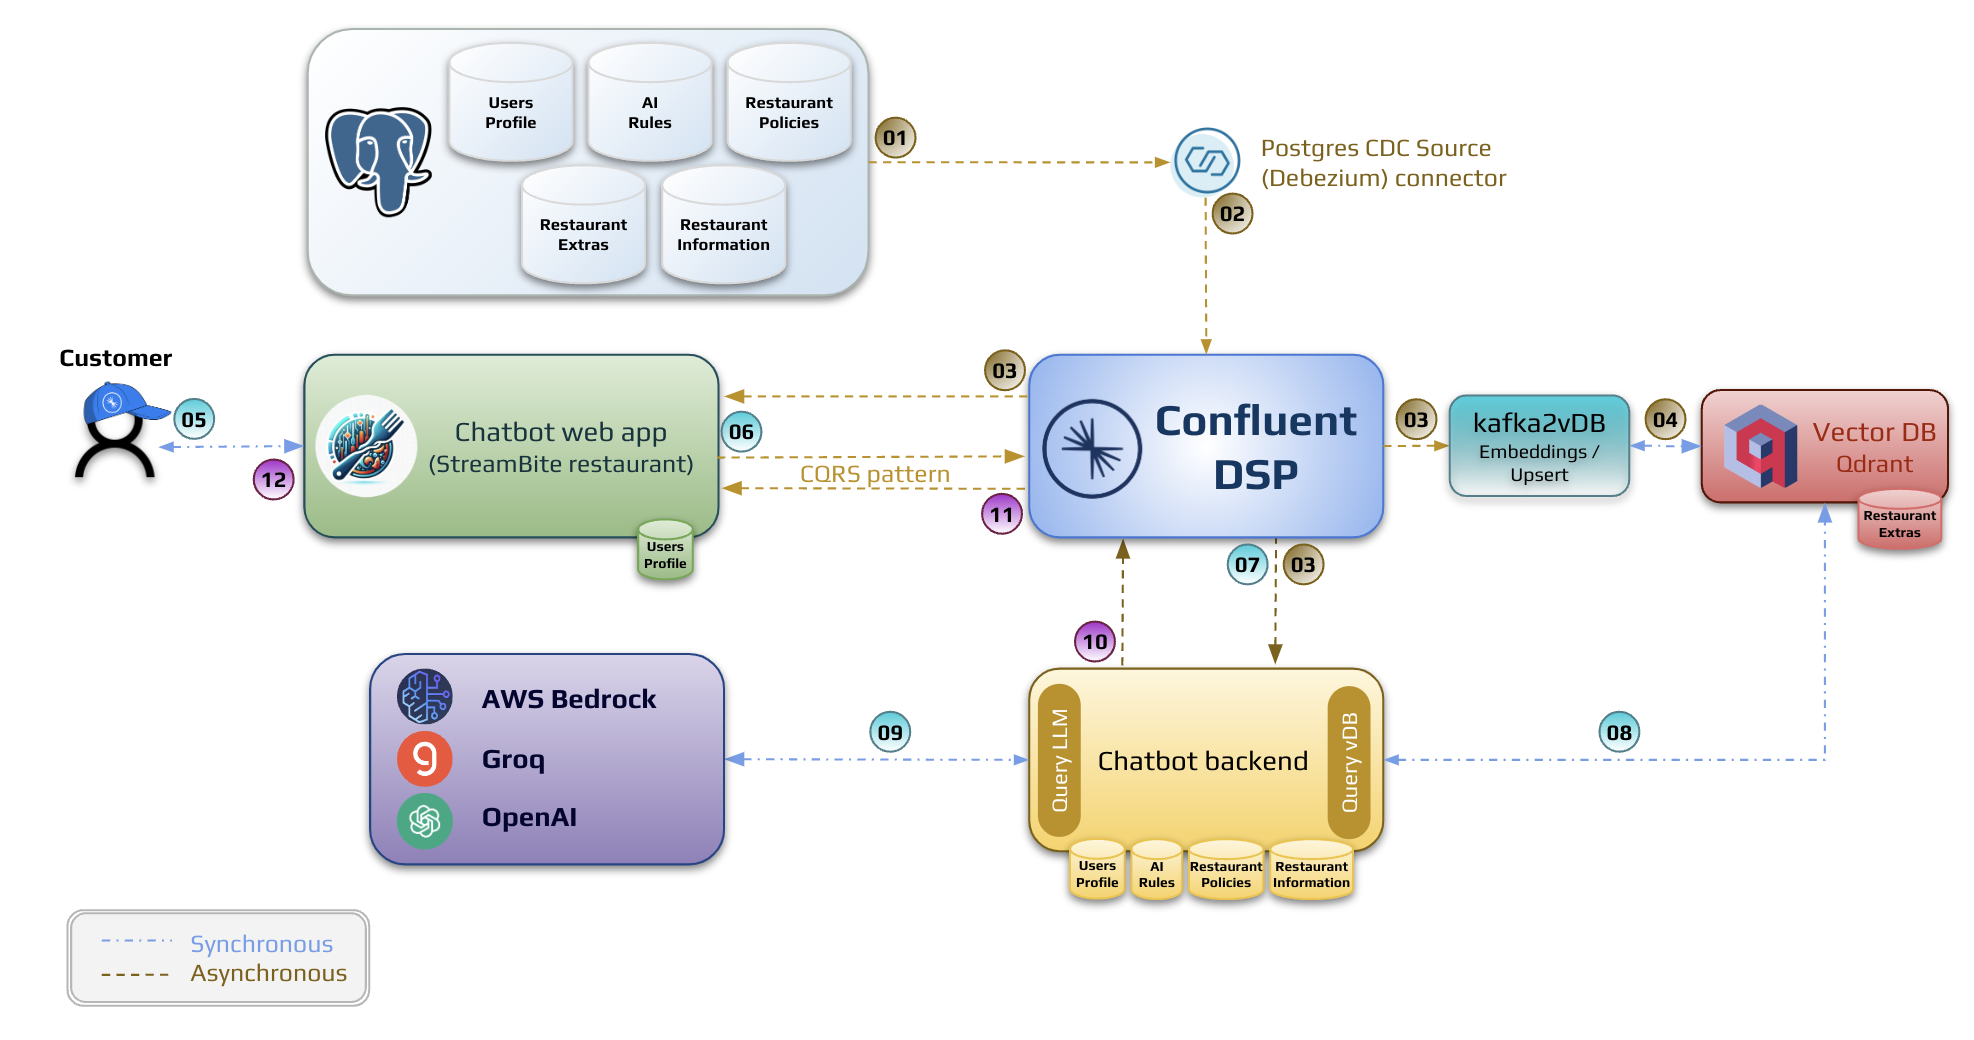
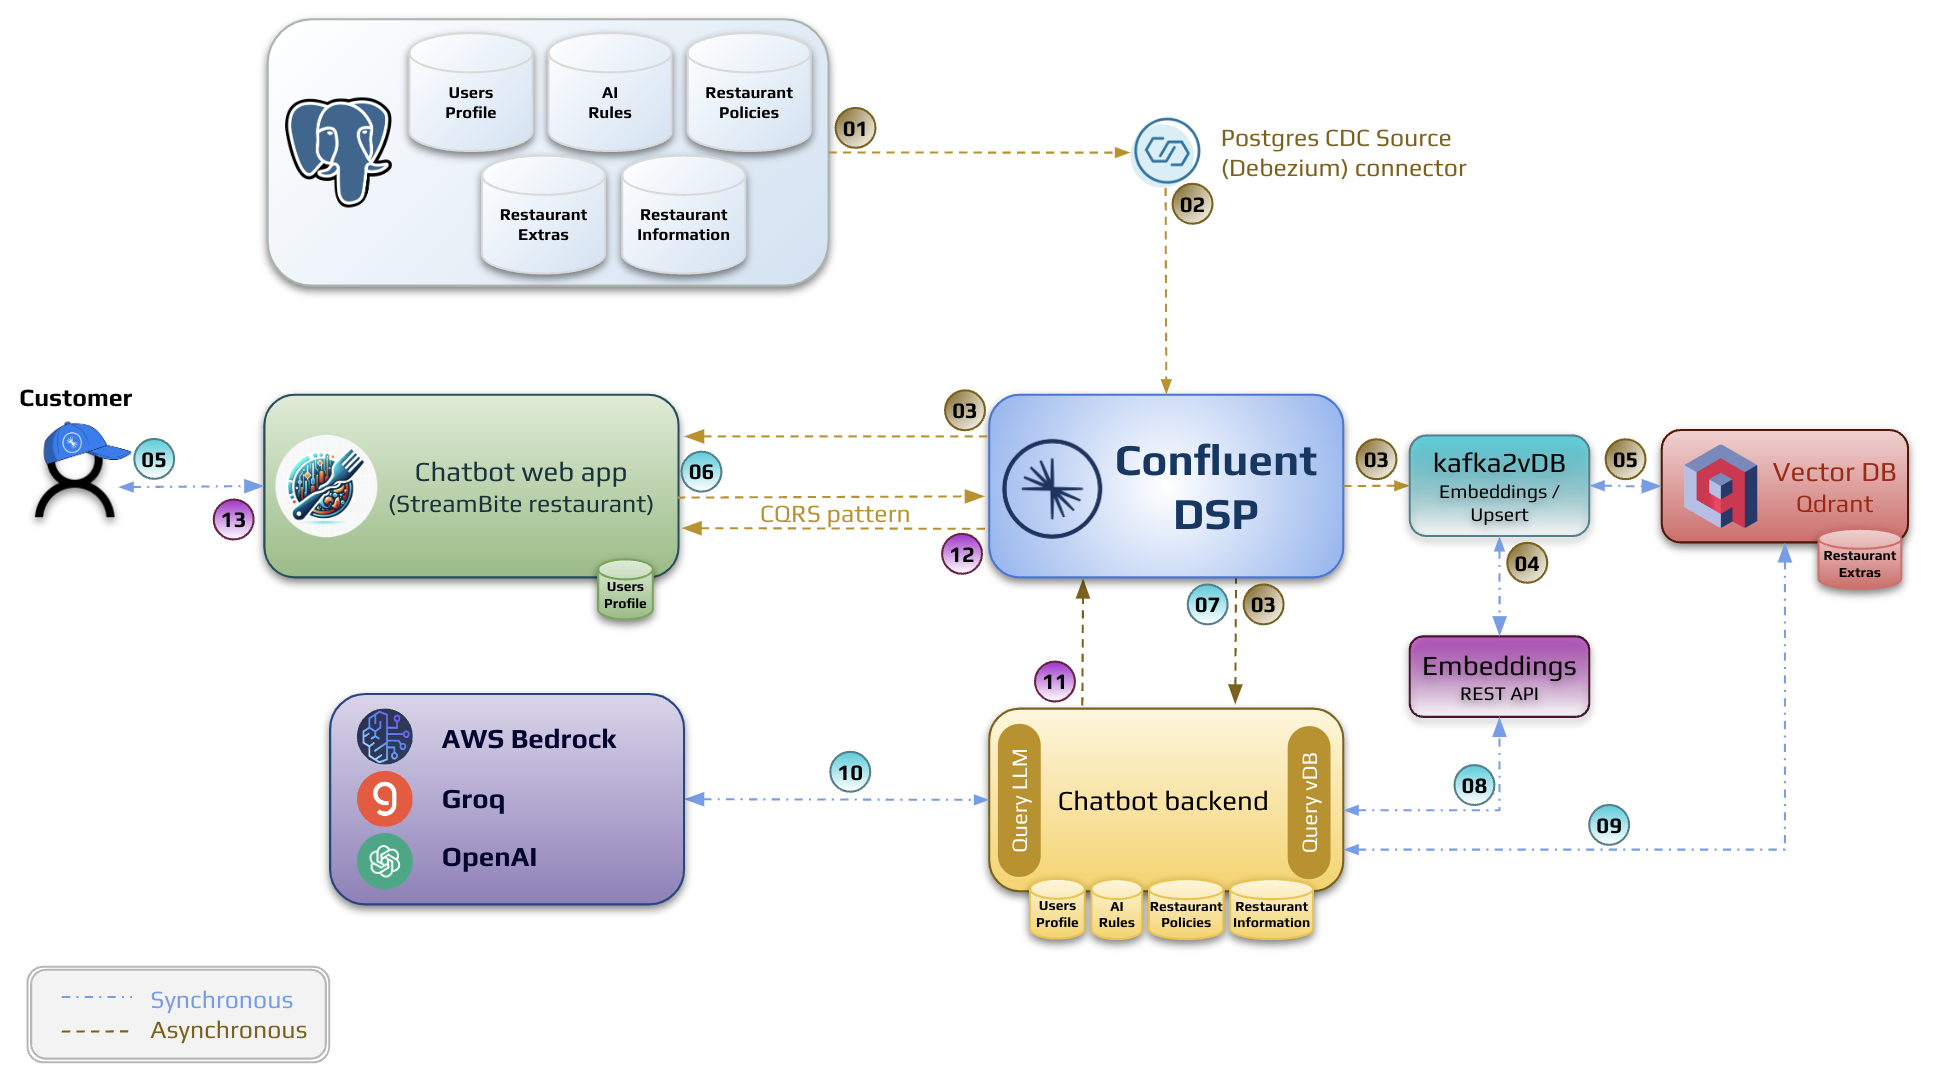
REST API for embeddings

diff --git a/src/static/css/main.css b/src/static/css/main.css
@@ -87,6 +87,16 @@ p {
   font-family: monospace, 'Courier New';
 }
 
+.log-embeddings {
+  color: white;
+  background-color: rgb(12, 0, 248);
+  margin: 6px;
+  padding: 2px;
+  border-radius: 3px;
+  font-size: 14px;
+  font-family: monospace, 'Courier New';
+}
+
 .log-db_provisioning {
   color: black;
   background-color: rgb(255, 239, 149);

diff --git a/src/chatbot.py b/src/chatbot.py
@@ -4,6 +4,7 @@ import json
 import time
 import boto3
 import logging
+import requests
 
 from dotenv import load_dotenv, find_dotenv
 from threading import Thread
@@ -14,7 +15,6 @@ from langchain.schema import SystemMessage, HumanMessage, AIMessage
 from langchain_community.callbacks.manager import get_openai_callback
 
 from qdrant_client import QdrantClient
-from sentence_transformers import SentenceTransformer
 
 from utils import (
     TOPIC_CUSTOMER_ACTIONS,
@@ -26,7 +26,6 @@ from utils import (
     TOPIC_DB_AI_RULES,
     TOPIC_DB_POLICIES,
     VDB_COLLECTION,
-    SENTENCE_TRANSFORMER,
     KafkaClient,
     SerializationContext,
     MessageField,
@@ -57,7 +56,6 @@ class LoadRAG:
     def __init__(
         self,
         vdb_client,
-        vdb_model,
         vdb_collection,
         topics: list = None,
     ) -> None:
@@ -65,7 +63,6 @@ class LoadRAG:
         self.customer_profile = dict()
         self.topics = topics
         self.vdb_client = vdb_client
-        self.vdb_model = vdb_model
         self.vdb_collection = vdb_collection
 
     def consumer(self, kafka) -> None:
@@ -162,10 +159,6 @@ if __name__ == "__main__":
     VECTOR_DB_MIN_SCORE = float(env_vars.get("VECTOR_DB_MIN_SCORE", 0.3))
     VECTOR_DB_SEARCH_LIMIT = int(env_vars.get("VECTOR_DB_SEARCH_LIMIT", 2))
 
-    # Load Sentence Transformer
-    logging.info(f"Loading sentence transformer, model: {SENTENCE_TRANSFORMER}")
-    VDB_MODEL = SentenceTransformer(SENTENCE_TRANSFORMER)
-
     # Qdrant (Vector-DB)
     logging.info("Loading VectorDB client (Qdrant)")
     VDB_CLIENT = QdrantClient(
@@ -173,13 +166,12 @@ if __name__ == "__main__":
         port=6333,
     )
 
-    # Set flag here to allow time to load sentence transformer
+    # Set flag here to allow time to connect to Qdrant
     set_flag(FLAG_FILE)
 
     # Class instance to load RAG data
     rag = LoadRAG(
         VDB_CLIENT,
-        VDB_MODEL,
         VDB_COLLECTION,
         topics=[
             TOPIC_DB_CUSTOMER_PROFILES,
@@ -206,7 +198,7 @@ if __name__ == "__main__":
     # Avro serialiser (for the response topic)
     kafka = KafkaClient(
         env_vars.get("KAFKA_CONFIG"),
-        env_vars.get('CLIENT_ID_CHATBOT'),
+        env_vars.get("CLIENT_ID_CHATBOT"),
         set_consumer=True,
         set_producer=True,
         auto_offset_reset="latest",
@@ -228,6 +220,8 @@ if __name__ == "__main__":
             aws_secret_access_key=":".join(AWS_SERVER_SECRET_KEY),
             region_name=env_vars.get("AWS_REGION"),
         )
+
+    embedding_url = f"http://localhost:{os.environ.get('EMBEDDING_PORT')}{os.environ.get('EMBEDDING_PATH')}"
 
     # Process messages submitted by the customers (Kafka consumer #2)
     for topic, headers, key, value in kafka.avro_string_consumer(
@@ -326,10 +320,20 @@ if __name__ == "__main__":
                         vdb_context = list()
 
                     if query:
-                        embeddings = VDB_MODEL.encode([query])
+                        # Generate vector Data
+                        response = requests.get(
+                            embedding_url,
+                            headers={
+                                "Content-Type": "text/plain; charset=UTF-8",
+                            },
+                            data=query,
+                        )
+                        embeddings = response.json().get("embeddings", list())
+
+                        # Query Vector DB
                         result_search = VDB_CLIENT.search(
                             collection_name=VDB_COLLECTION,
-                            query_vector=embeddings[0],
+                            query_vector=embeddings,
                             limit=VECTOR_DB_SEARCH_LIMIT,
                         )
                         for search in result_search:

diff --git a/src/kafka2vDB.py b/src/kafka2vDB.py
@@ -1,17 +1,17 @@
 import os
 import sys
+import json
 import logging
+import requests
 
 from dotenv import load_dotenv, find_dotenv
 
 from qdrant_client import QdrantClient
 from qdrant_client.http import models
-from sentence_transformers import SentenceTransformer
 
 from utils import (
     VDB_COLLECTION,
     TOPIC_DB_EXTRAS,
-    SENTENCE_TRANSFORMER,
     KafkaClient,
     md5_hash,
     sys_exc,
@@ -47,10 +47,6 @@ if __name__ == "__main__":
         enable_auto_commit=True,
     )
 
-    # Load Sentence Transformer
-    logging.info(f"Loading sentence transformer, model: {SENTENCE_TRANSFORMER}")
-    VDB_MODEL = SentenceTransformer(SENTENCE_TRANSFORMER)
-
     # Qdrant (Vector-DB)
     logging.info("Loading VectorDB client (Qdrant)")
     VDB_CLIENT = QdrantClient(
@@ -68,8 +64,10 @@ if __name__ == "__main__":
         ),
     )
 
-    # Set flag here to allow time to load sentence transformer and create Vector DB collection
+    # Set flag here to allow time to create Vector DB collection
     set_flag(FLAG_FILE)
+
+    embedding_url = f"http://localhost:{os.environ.get('EMBEDDING_PORT')}{os.environ.get('EMBEDDING_PATH')}"
 
     for topic, _, _, value in kafka.avro_string_consumer(
         kafka.consumer,
@@ -94,18 +92,30 @@ if __name__ == "__main__":
                     )
 
                 else:
-                    sentence = f"{payload_key}: {payload_value['description']}"
-                    embeddings = VDB_MODEL.encode([sentence])
+                    # Generate vector Data
+                    response = requests.get(
+                        embedding_url,
+                        headers={
+                            "Content-Type": "text/plain; charset=UTF-8",
+                        },
+                        data=json.dumps(
+                            {
+                                payload_key: payload_value["description"],
+                            }
+                        ),
+                    )
+                    embeddings = response.json().get("embeddings", list())
+
                     # Upsert collection
                     logging.info(
-                        f"Upserting Vector DB collection {VDB_COLLECTION}: {id} | {sentence}"
+                        f"Upserting Vector DB collection {VDB_COLLECTION}: {id} | {payload_key}: {payload_value['description']}"
                     )
                     VDB_CLIENT.upsert(
                         collection_name=VDB_COLLECTION,
                         points=[
                             models.PointStruct(
                                 id=id,
-                                vector=embeddings[0],
+                                vector=embeddings,
                                 payload={
                                     "title": payload_key,
                                     "description": payload_value["description"],

diff --git a/src/embeddings.py b/src/embeddings.py
@@ -1,0 +1,71 @@
+# Setence Transformer REST API
+import os
+import sys
+import uvicorn
+import logging
+
+from dotenv import load_dotenv, find_dotenv
+from fastapi import Request, FastAPI
+from sentence_transformers import SentenceTransformer
+
+from utils import (
+    SENTENCE_TRANSFORMER,
+    KafkaClient,
+    sys_exc,
+    set_flag,
+    unset_flag,
+)
+
+
+# Start Fast-API
+app = FastAPI()
+
+
+@app.get("/api/v1/embedding/setence-transformer")
+async def embedding(request: Request):
+    try:
+        sentence = (await request.body()).decode("utf-8")
+        embeddings = VDB_MODEL.encode([sentence])[0].tolist()
+        logging.info(f"Vector data for '{sentence}': {embeddings}")
+        return {
+            "embeddings": embeddings,
+        }
+    except Exception:
+        logging.error(sys_exc(sys.exc_info()))
+
+
+if __name__ == "__main__":
+    # Load env variables
+    load_dotenv(find_dotenv())
+    env_vars = dict(os.environ)
+
+    FLAG_FILE = env_vars.get("FLAG_FILE")
+    unset_flag(FLAG_FILE)
+
+    FILE_APP = os.path.splitext(os.path.split(__file__)[-1])[0]
+    logging.basicConfig(
+        format=f"[{FILE_APP}] %(asctime)s.%(msecs)03d [%(levelname)s]: %(message)s",
+        level=logging.INFO,
+        datefmt="%Y-%m-%d %H:%M:%S",
+    )
+
+    # Set kafka log handler
+    kafka = KafkaClient(
+        env_vars.get("KAFKA_CONFIG"),
+        f"{env_vars.get('CLIENT_ID_EMBEDDING')}",
+        file_app=FILE_APP,
+    )
+
+    logging.info(f"Loading sentence transformer, model: {SENTENCE_TRANSFORMER}")
+    VDB_MODEL = SentenceTransformer(SENTENCE_TRANSFORMER)
+
+    # Set flag here to allow time to load sentence transformer
+    set_flag(FLAG_FILE)
+
+    logging.info(f"Starting REST API (Sentence Transformer)")
+    uvicorn.run(
+        app,
+        host=env_vars.get("EMBEDDING_HOST"),
+        port=int(env_vars.get("EMBEDDING_PORT")),
+        reload=False,
+    )

diff --git a/src/utils/__init__.py b/src/utils/__init__.py
@@ -410,7 +410,7 @@ def flat_sql(
     env_vars: dict,
 ) -> list:
     result = data.replace("\r", "").replace("\n", " ").replace("\t", " ")
-    for var in set(re.findall("\$ENV\.([\w_-]*)", data)):
+    for var in set(re.findall(r"\$ENV\.([\w_-]*)", data)):
         result = result.replace(f"$ENV.{var}", env_vars.get(var, ""))
     while "  " in result:
         result = result.replace("  ", " ")

diff --git a/README.md b/README.md
@@ -47,6 +47,11 @@ KAFKA_CONFIG="config/docker_host.ini"
 FLAG_FILE=".db_provisioning.flag"
 MD5_PASSWORD_SALT="<MD5_string_here>"           # String to be used to salt hash passwords
 CLIENT_DB_PROVISIONING="chatbot-db_provisioning"
+# Embedding REST API
+EMBEDDING_HOST="0.0.0.0"
+EMBEDDING_PORT=9999
+EMBEDDING_PATH="/api/v1/embedding/setence-transformer"
+CLIENT_ID_EMBEDDING="chatbot-embeddings"
 # Web App (Chatbot front-end)
 WEBAPP_HOST="0.0.0.0"
 WEBAPP_PORT=8888
@@ -140,8 +145,15 @@ Data will be automatically loaded into a Postgres DB by the python script `src/d
 A [Postgres CDC source connector](https://docs.confluent.io/cloud/current/connectors/cc-postgresql-cdc-source-v2-debezium/cc-postgresql-cdc-source-v2-debezium.html) will make sure to capture any change (insert, update, delete) and have them published to Confluent Platform.
 
 #### Chatbot back-end microservices
-In parallel to that the kafka2vDB microservice (python script `src/kafka2vDB.py`) will start and perform the following task:
-   - Run a Qdrant vector search engine, create a local collection (`chatbot_restaurant`), generate the embeddings (using sentence transformer `all-MiniLM-L6-v2`) and load add Vector DB data (as consumed from the corresponding topic) into it
+REST API (`src/embeddings.py`) to use Hugging Face's sentence transformer to generate the vector data (embeddings: `all-MiniLM-L6-v2`). It is a basic HTTP service where a sentence is passed as a GET request and the vector data is returned, for example:
+```
+curl -X GET -H "Content-Type: text/plain" --data "This is a simple document" http://127.0.0.1:9999/api/v1/embedding/setence-transformer
+
+Response:
+{"embeddings":[-0.028658099472522736,0.13833333551883698,0.0034347819164395332,0.04011296480894089,0.0010451931739225984,0.015315758064389229,-0.04851182922720909,0.05935216695070267,-0.0057414136826992035,0.07178130000829697,0.02027994953095913,0.025521602481603622,0.015330374240875244,-0.034623079001903534,-0.0816323310136795,-0.02147013507783413,-0.04527688026428223,-0.007726994343101978,-0.009933574125170708,0.02455240674316883,0.017794758081436157,0.039150457829236984,-0.03188435360789299,-0.02095308154821396,-0.0413987822830677,0.06986262649297714,-0.06460332870483398,0.032510459423065186,0.11223344504833221,-0.04339520260691643,0.04247824475169182,0.04491167888045311,0.11129646003246307,0.019183367490768433,-0.0003866863262373954,0.017428694292902946,0.07908076047897339,-0.010774067603051662,0.02288702130317688,0.014268487691879272,-0.02293166145682335,-0.09728102385997772,-0.02463136985898018,0.05002216994762421,-0.002762359566986561,0.00788930244743824,-0.07418530434370041,0.0073544601909816265,-0.025614144280552864,-0.002211261074990034,-0.0440235361456871,-0.042914774268865585,-0.08283152431249619,-0.027865255251526833,0.022316843271255493,0.05066744610667229,-0.03218130022287369,0.009016674011945724,-0.050893787294626236,-0.06838513910770416,0.03264463692903519,0.013414286077022552,-0.11337883025407791,0.04988769814372063,0.131679505109787,0.020619111135601997,-0.032161857932806015,0.01668124459683895,-0.046422891318798065,-0.03824001923203468,-0.0548115149140358,-0.026179959997534752,0.0017127894097939134,0.022658919915556908,-0.03574579954147339,-0.13052785396575928,-0.03847736492753029,0.013063482008874416,0.033254388719797134,0.014300026930868626,-0.06260477751493454,-0.0013220770051702857,0.01700763963162899,0.05371489375829697,0.01549062505364418,0.023812897503376007,0.04786089435219765,-0.01796826161444187,0.04212234914302826,0.015367033891379833,0.01965334266424179,-0.02069547027349472,0.07886581867933273,-0.014824334532022476,-0.03420693799853325,0.031055858358740807,0.030191538855433464,-0.04793568700551987,0.038646940141916275,0.10939612984657288,0.03684017062187195,0.010264658369123936,0.07474218308925629,-0.0699053555727005,-0.09680674225091934,-0.08298686146736145,-0.023974822834134102,-0.03865893930196762,0.00965136755257845,-0.05025486648082733,-0.04891753941774368,-0.041920796036720276,-0.10782980173826218,-0.03499111905694008,0.016604779288172722,-0.03204632177948952,-0.0186536256223917,-0.017247214913368225,0.06900005787611008,-0.0036062884610146284,0.03447870537638664,-0.013706723228096962,-0.05974891409277916,-0.02782285399734974,-0.07956942170858383,-0.018427681177854538,0.05358703434467316,-6.926965600153053e-33,0.03236393257975578,0.06594733148813248,-0.054814934730529785,0.12482839077711105,-0.008244013413786888,-0.006255169864743948,-0.03163215145468712,-0.016410641372203827,-0.1044270247220993,0.0022943634539842606,0.05958535522222519,0.011518362909555435,0.020412730053067207,0.08618234843015671,-0.0318487286567688,0.013665023259818554,-0.06940778344869614,0.1043737456202507,0.033355437219142914,-0.029260560870170593,-0.031697195023298264,0.07335730642080307,0.04524841532111168,-0.02311796322464943,0.03299304097890854,0.06601140648126602,-0.003846934298053384,-0.0649566724896431,-0.03286319971084595,0.01914163865149021,0.07686728984117508,0.013189935125410557,0.0009626747341826558,-0.07465354353189468,0.014812100678682327,0.06252697110176086,0.01241240743547678,-0.05651228874921799,0.041071586310863495,-0.03449036926031113,-0.05037553608417511,-0.0509328655898571,0.04964165389537811,-0.02552027441561222,0.06690891832113266,0.06599045544862747,0.007426314055919647,-0.01639343425631523,0.10503088682889938,0.016480324789881706,-0.01200720202177763,0.019286658614873886,-0.02686232514679432,-0.006795750465244055,0.048052504658699036,0.06225127726793289,-0.0399661585688591,0.06600341200828552,-0.0498044416308403,0.004333487246185541,0.04126637428998947,0.07700323313474655,-0.06276240199804306,0.014868994243443012,-0.05243377014994621,0.004638840444386005,-0.08281691372394562,-0.007245906163007021,0.09538986533880234,-0.06236483156681061,-0.09955799579620361,-0.0037524541839957237,0.04340575262904167,-0.07025796920061111,-0.009304131381213665,0.014245616272091866,0.04740632697939873,-0.07131244242191315,-0.055753905326128006,0.026409044861793518,-0.12382301688194275,-0.060820259153842926,-0.001278965501114726,0.008587123826146126,-0.03629260137677193,0.021135706454515457,0.03864066302776337,0.003305911784991622,-0.039328742772340775,-0.036007702350616455,-0.0016396489227190614,-0.0016327322227880359,-0.02034650556743145,-0.05740434303879738,0.08396366983652115,4.144293495900286e-33,-0.03938411548733711,-0.030746223405003548,-0.09571609646081924,0.08449800312519073,-0.01261363085359335,0.06762391328811646,0.029257453978061676,0.025250455364584923,0.028627844527363777,0.08077865839004517,-0.07425221800804138,-0.0024223122745752335,-0.0011817674385383725,0.011014451272785664,-0.004607462789863348,-0.006130173336714506,0.014261548407375813,0.017018409445881844,0.0037884812336415052,0.03673166781663895,-0.02258460409939289,0.06949494779109955,-0.030951224267482758,0.0313783623278141,0.05184926092624664,0.0343705415725708,-3.4451128158252686e-05,-0.06755280494689941,-0.03739776834845543,-0.014923679642379284,-0.03465350717306137,-0.09438541531562805,-0.07612684369087219,0.0004235344531480223,-0.04691833630204201,-0.060347095131874084,0.08146746456623077,-0.002036962192505598,-0.012916138395667076,-0.00632999325171113,0.009354829788208008,0.037661731243133545,0.03565860912203789,0.013936738483607769,-0.0286534633487463,-0.03809351846575737,0.0044151549227535725,-0.019547203555703163,0.0012527632061392069,-0.00893840380012989,-0.0009723872062750161,-0.05407234653830528,-0.011945700272917747,-0.05707602575421333,-0.07044333219528198,0.0322931706905365,-0.003864679019898176,-0.04749102145433426,0.058857668191194534,0.0643119215965271,-0.051256775856018066,0.022495737299323082,-0.044012635946273804,0.08532481640577316,-0.009160703048110008,-0.06520756334066391,-0.07454909384250641,-0.011432385072112083,-0.05387762933969498,0.027083633467555046,0.02599809505045414,-0.0005685407668352127,-0.0068819960579276085,-0.08946458995342255,0.09805048257112503,-0.08042597770690918,0.010588339529931545,-0.01890106126666069,-0.0799998864531517,-0.054017145186662674,0.1319347321987152,0.05794701725244522,-0.032440703362226486,-0.019562460482120514,0.03353145346045494,-0.05742955952882767,0.006818782072514296,-0.08254832029342651,-0.00658080168068409,0.030727798119187355,-0.10618793964385986,0.07246170938014984,0.05635008215904236,0.0716710090637207,-0.040576666593551636,-1.5792565477568132e-08,-0.018368249759078026,-0.047002680599689484,0.017374392598867416,-0.05054785683751106,-0.0030795519705861807,0.06375181674957275,0.11047825217247009,-0.04813127592206001,-0.06513296812772751,0.00912398286163807,0.07637303322553635,-0.03823176771402359,-0.04852112755179405,0.01616605743765831,0.03823819383978844,0.06423269957304001,0.009748870506882668,-0.02563166618347168,-0.05945388600230217,0.029103877022862434,-0.0017734928987920284,0.006972060073167086,0.014070832170546055,0.019541826099157333,0.05110570788383484,0.04020532965660095,0.001403326285071671,0.09994557499885559,0.013990858569741249,-0.04442111775279045,-0.011481299996376038,0.12430066615343094,0.024165282025933266,0.07299681752920151,0.013654958456754684,0.07709376513957977,0.03068370185792446,0.020937439054250717,-0.006122434511780739,-0.04838560149073601,-0.026079576462507248,0.0719723328948021,-0.05555424466729164,0.04211649298667908,0.04742937907576561,0.03317020460963249,-0.02999655157327652,-0.07144083827733994,-0.045265574008226395,-0.035600557923316956,0.025807807222008705,-0.05857867747545242,0.11510449647903442,0.016004564240574837,-0.05803704634308815,0.0018602993804961443,0.08818909525871277,0.04455763101577759,0.021631209179759026,0.015024605207145214,0.063731849193573,0.19349661469459534,0.04959038272500038,-0.010350522585213184]}
+```
+
+Kafka2vDB microservice (python script `src/kafka2vDB.py`) to run a Qdrant vector search engine, create a local collection (`chatbot_restaurant`), generate the embeddings (using sentence transformer `all-MiniLM-L6-v2`) and load add Vector DB data (as consumed from the corresponding topic) into it
 
 The chatbot back-end microservice (python script `src/chatbot.py`) will start and perform the following tasks:
  - Thread #1:
